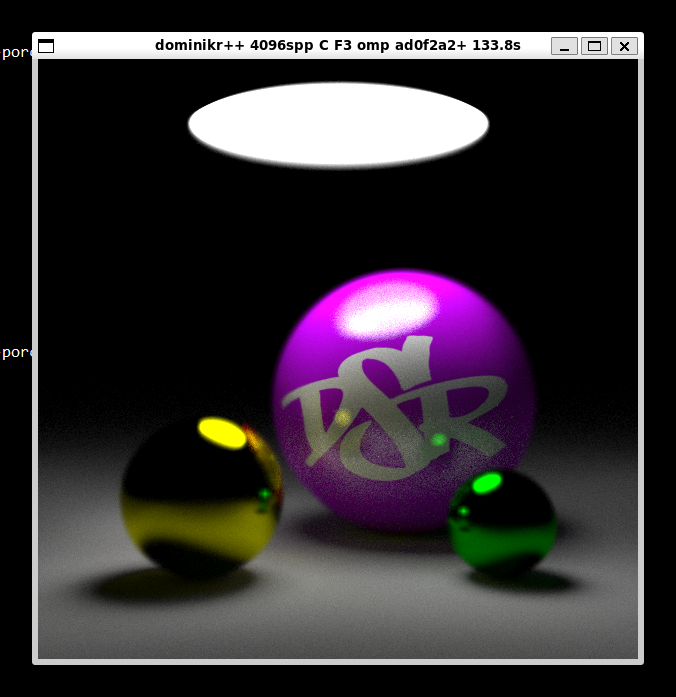
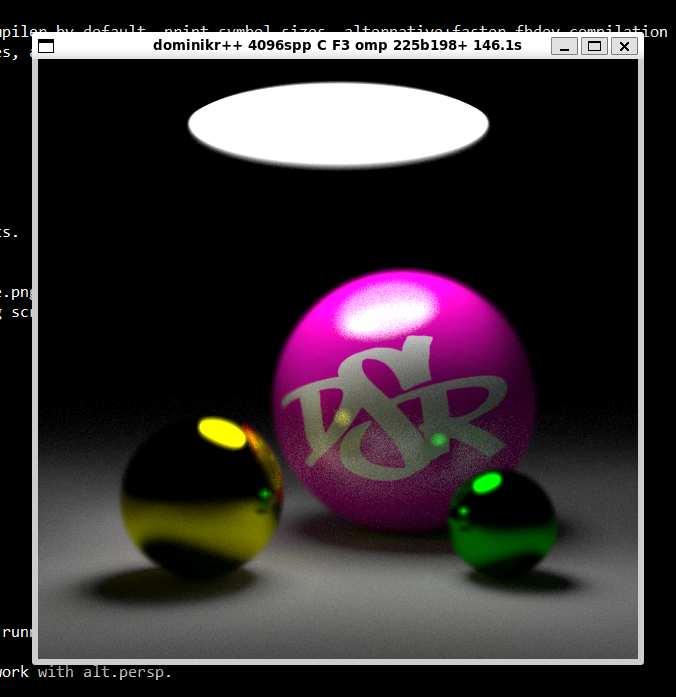
fix params for generation of new scene, update pic of final scene with fixes and updated 2.0 gamma

diff --git a/scene3.h b/scene3.h
@@ -24,8 +24,8 @@ CONSTV __attribute__((aligned(1))) sphere scene[] = {
 //	{ {-1001,     0,    0}, 1000, RED,    BLACK,   0 },	// a 0
 //	{ { 1001,     0,    0}, 1000, BLUE,   BLACK,   0 },	// b 1
 //	{ {    0,     0, 1001}, 1000, GRAY,   BLACK,   0 },	// c 2
-	{ {    0, -1000.8,   0}, 1000, GRAY,   BLACK,   0 },	// d 3
-	{ {    0,  1001,    0}, 1000, BLACK,  BLACK,   2 },	// e 4
+	{ {    0, -1000.8,   0}, 1000, GRAY,   BLACK,   1 },	// d 3
+	{ {    0,  1001,    0}, 1000, BLACK,  BLACK,   0 },	// e 4
 	{ {    0,  4.95,    0},    4, BLACK,  WHITE10, 0 },	// e 4
 	{ { -0.5,  -0.5, -0.6},  0.3, YELLOW, BLACK,   2 },	// f 5
 	{ { 0.6,  -0.6, -0.6},  0.2, GREEN, BLACK,   2 },	// f 5

diff --git a/week3.c b/week3.c
@@ -25,7 +25,7 @@ minifying todo:
 #define UPDATE		1	// update screen while calculation is running
 #define BLUR_VAL	0.23
 #define OLDEYE		0	// old eye ray calc. new one doesn't work with alt.persp.
-#define COSWEIGHT	0	// cosine-weighted distribution
+#define COSWEIGHT	1	// cosine-weighted distribution
 
 #define WIDTH		600	// image width
 #define HEIGHT		600	// image height
